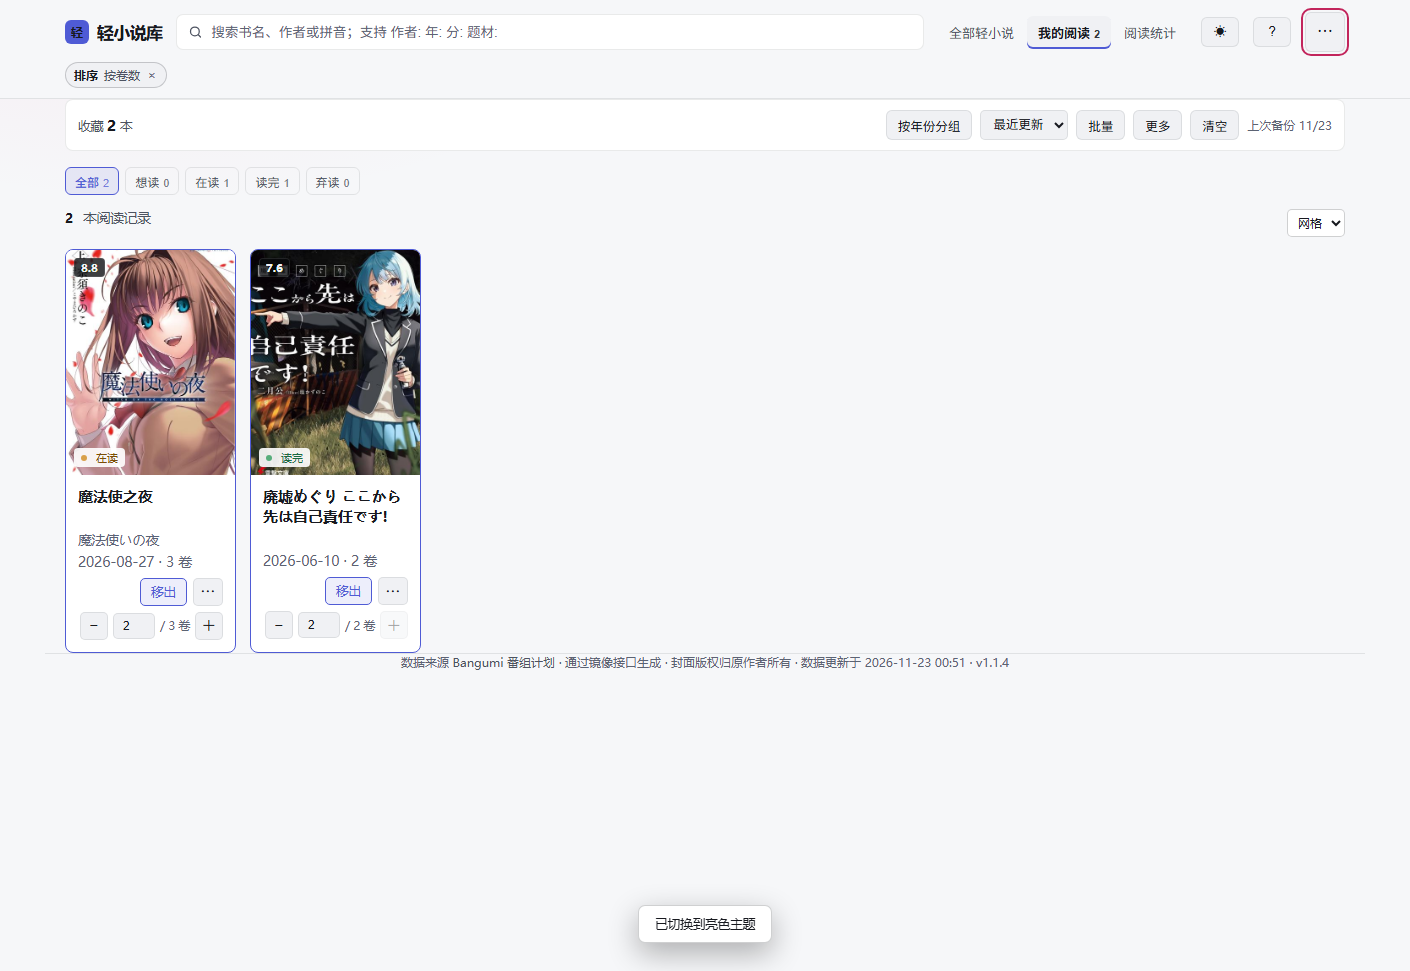
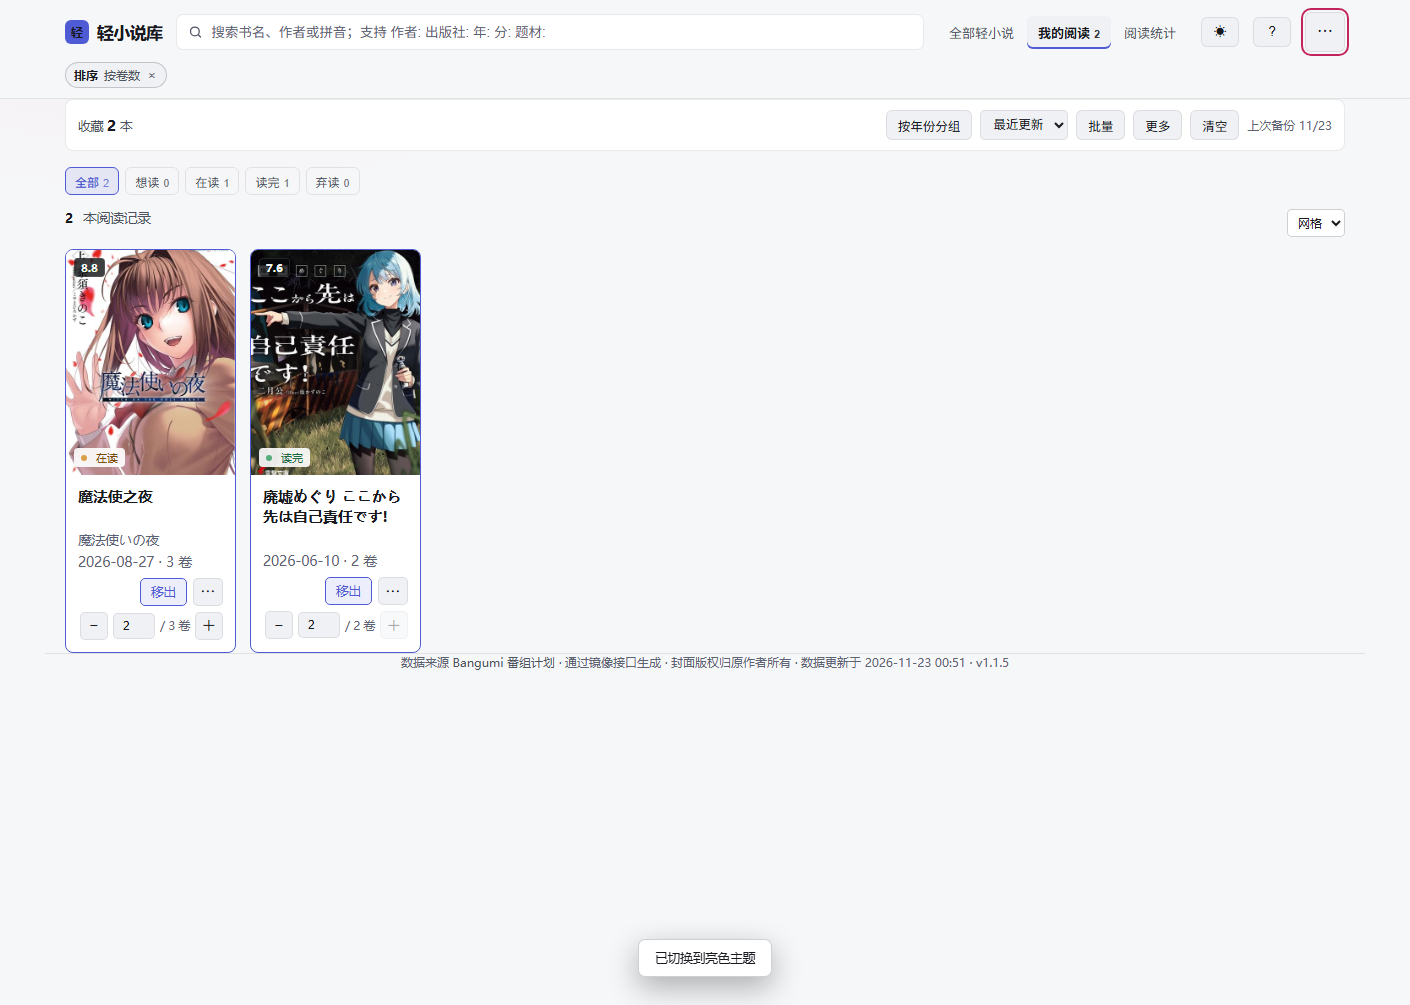
improve: 高级搜索新增出版社/书系字段与详情标签跳转

diff --git a/index.html b/index.html
@@ -2400,7 +2400,7 @@
           <circle cx="11" cy="11" r="7"></circle>
           <path d="m20 20-3.5-3.5"></path>
         </svg>
-        <input id="search" type="search" placeholder="搜索书名、作者或拼音；支持 作者: 年: 分: 题材:" autocomplete="off" aria-label="搜索书名">
+        <input id="search" type="search" placeholder="搜索书名、作者或拼音；支持 作者: 出版社: 年: 分: 题材:" autocomplete="off" aria-label="搜索书名">
         <div class="searchhist" id="searchHist" hidden></div>
       </div>
       <nav class="tabs">
@@ -2561,7 +2561,7 @@
 </main>
 
 <footer class="wrap">
-  数据来源 <a href="https://bgm.tv" target="_blank" rel="noreferrer">Bangumi 番组计划</a> · 通过镜像接口生成 · 封面版权归原作者所有 · 数据更新于 <span id="dataUpdated" title="Bangumi 数据快照生成时间">—</span> · <span title="项目版本">v1.1.4</span>
+  数据来源 <a href="https://bgm.tv" target="_blank" rel="noreferrer">Bangumi 番组计划</a> · 通过镜像接口生成 · 封面版权归原作者所有 · 数据更新于 <span id="dataUpdated" title="Bangumi 数据快照生成时间">—</span> · <span title="项目版本">v1.1.5</span>
 </footer>
 
 <div class="modal" id="modal" hidden>
@@ -2611,7 +2611,7 @@
       <li><kbd>?</kbd><span>打开 / 关闭本帮助</span></li>
       <li><kbd>长按</kbd><span>快捷菜单；Ctrl K 打开命令面板</span></li>
     </ul>
-    <p class="hint">搜索支持字段：<code>作者:米泽穗信</code>、<code>年:2020</code>（区间 <code>年:2010-2020</code>）、<code>分:&gt;=8</code>、<code>题材:奇幻</code>；<code>-词</code> 用于排除。</p>
+    <p class="hint">搜索支持字段：<code>作者:米泽穗信</code>、<code>出版社:KADOKAWA</code>、<code>书系:電撃文庫</code>、<code>年:2020</code>（区间 <code>年:2010-2020</code>）、<code>分:&gt;=8</code>、<code>题材:奇幻</code>；<code>-词</code> 用于排除。</p>
     <button class="btn primary" id="helpClose" type="button">知道了</button>
   </div>
 </div>
@@ -3511,12 +3511,12 @@
       (/^[a-z0-9]+$/.test(token) && py.indexOf(token) >= 0);
   }
 
-  // 高级搜索字段：作者:、年:、分:、题材:（也接受全角冒号）
+  // 高级搜索字段：作者:、出版社:、书系:、年:、分:、题材:（也接受全角冒号）
   function parseSearchFields(tokens) {
     var fields = [];
     var rest = [];
     tokens.forEach(function (t) {
-      var m = t.match(/^(作者|年|分|题材|tag)[:：](.+)$/i);
+      var m = t.match(/^(作者|出版社|书系|年|分|题材|pub|line|tag)[:：](.+)$/i);
       if (!m) { rest.push(t); return; }
       fields.push({ k: m[1].toLowerCase(), v: m[2].trim() });
     });
@@ -3583,6 +3583,12 @@
       if (f.k === '作者') {
         var au = f.v.toLowerCase();
         list = list.filter(function (x) { return String(x.au || '').toLowerCase().indexOf(au) >= 0; });
+      } else if (f.k === '出版社' || f.k === 'pub') {
+        var pub = f.v.toLowerCase();
+        list = list.filter(function (x) { return String(x.pub || '').toLowerCase().indexOf(pub) >= 0; });
+      } else if (f.k === '书系' || f.k === 'line') {
+        var line = f.v.toLowerCase();
+        list = list.filter(function (x) { return String(x.line || '').toLowerCase().indexOf(line) >= 0; });
       } else if (f.k === '年') {
         list = list.filter(function (x) { return matchYear(x.d, f.v); });
       } else if (f.k === '分') {
@@ -4497,14 +4503,27 @@
     if (collected && myMap[id].r) {
       pairs.push(['我的评分', myMap[id].r + ' / 10']);
     }
-    // 作者单独渲染成可点击标签，一键筛选该作者的全部作品
-    pairs = pairs.filter(function (p) { return p[0] !== '作者'; });
+    // 作者、出版社、书系单独渲染成可点击标签，一键筛选同一来源的作品
+    pairs = pairs.filter(function (p) {
+      return p[0] !== '作者' && p[0] !== '出版社' && p[0] !== '书系';
+    });
     var authorHtml = String(item.au || '').split(/[\/、,，&]/).map(function (name) {
       var n = name.trim();
       if (!n) return '';
       return '<button class="chip chipbtn" type="button" data-jump-author="' + escapeHtml(n) +
         '" title="查看该作者的全部作品"><i>作者</i>' + escapeHtml(n) + ' ›</button>';
     }).join('');
+    // 出版社 / 书系含空白时无法用单个搜索词表达，降级为普通标签只作展示
+    function jumpChip(attr, label, value, title) {
+      if (!value) return '';
+      if (/\s/.test(value)) {
+        return '<span class="chip"><i>' + label + '</i>' + escapeHtml(value) + '</span>';
+      }
+      return '<button class="chip chipbtn" type="button" data-' + attr + '="' + escapeHtml(value) +
+        '" title="' + title + '"><i>' + label + '</i>' + escapeHtml(value) + ' ›</button>';
+    }
+    var pubHtml = jumpChip('jump-pub', '出版社', item.pub, '查看该出版社的全部作品');
+    var lineHtml = jumpChip('jump-line', '书系', item.line, '查看该文库 / 书系的全部作品');
     var jumpHtml = yearOf(item.d)
       ? '<button class="chipjump" type="button" data-jump-year="' + yearOf(item.d) +
         '" title="查看 ' + yearOf(item.d) + ' 年的全部书目">' + yearOf(item.d) + ' 年 ›</button>'
@@ -4519,7 +4538,7 @@
     $('detailMeta').innerHTML = pairs.map(function (p) {
       var label = '<i>' + p[0] + '</i>' + escapeHtml(p[1]);
       return '<span class="chip"' + (p[0] === '进度' ? ' data-chip="progress"' : '') + '>' + label + '</span>';
-    }).join('') + jumpHtml + authorHtml + genreHtml;
+    }).join('') + jumpHtml + authorHtml + genreHtml + pubHtml + lineHtml;
     var opts = $('statusOpts');
     opts.hidden = !collected;
     opts.innerHTML = collected ? STATUS_ORDER.map(function (s) {
@@ -5857,6 +5876,18 @@
     if (authorBtn && authorBtn.dataset.jumpAuthor) {
       var name = authorBtn.dataset.jumpAuthor;
       jumpToAll({ q: '作者:' + name }, '已筛选作者：' + name);
+      return;
+    }
+    var pubBtn = e.target.closest('[data-jump-pub]');
+    if (pubBtn && pubBtn.dataset.jumpPub) {
+      var pub = pubBtn.dataset.jumpPub;
+      jumpToAll({ q: '出版社:' + pub }, '已筛选出版社：' + pub);
+      return;
+    }
+    var lineBtn = e.target.closest('[data-jump-line]');
+    if (lineBtn && lineBtn.dataset.jumpLine) {
+      var line = lineBtn.dataset.jumpLine;
+      jumpToAll({ q: '书系:' + line }, '已筛选书系：' + line);
     }
   });
 

diff --git a/sw.js b/sw.js
@@ -1,5 +1,5 @@
 // 应用壳离线缓存：首页网络优先并带超时回退，其余同源资源缓存优先、后台更新
-var CACHE = 'yuc-ln-shell-v7';
+var CACHE = 'yuc-ln-shell-v8';
 var SHELL = ['./', './index.html', './manifest.webmanifest', './icon.svg', './icons/icon-180.png', './icons/icon-192.png', './icons/icon-512.png', './data/light-novels.js'];
 var IMG_LIMIT = 400;
 

diff --git a/HANDOVER.md b/HANDOVER.md
@@ -1,10 +1,10 @@
 # 轻小说库 · 落实与交接
 
 - 文档日期：2026-11-23
-- 当前状态：**v1.1.4 完成**（数据、页面、书评、统计、Gist 同步、PWA、自动化验收 128/128）
+- 当前状态：**v1.1.5 完成**（数据、页面、书评、统计、Gist 同步、PWA、自动化验收 131/131）
 - 模板项目：`../番剧`（Bangumi Anime Library v1.6.8）
 - 模板线上：<https://xyykmkefke.github.io/bangumi-anime-library/>
-- 目标版本：v1.1.4（已达成，补丁：书评草稿自动保留）
+- 目标版本：v1.1.5（已达成，补丁：出版社 / 书系搜索与标签跳转）
 
 ## 1. 目标与边界
 
@@ -399,6 +399,16 @@ PWA / 移动端：
 - 版本与缓存：页脚、manifest、package.json 升至 1.1.4；SW 缓存名升到 `yuc-ln-shell-v7`。
 - 测试：`check-data` 问题 0；`test-merge` 20/20；`verify` 128/128（新增草稿暂存、重开恢复、草稿提示、保存后清除 4 项）。
 - 来源：<https://roadmap.thestorygraph.com/requests-ideas/posts/add-spoiler-tag-to-reviews>、<https://roadmap.thestorygraph.com/changelog>、<https://hardcover.app/blog/hardcover-report-for-september-2026>。
+
+## 9.8 v1.1.5 补丁记录（2026-11-23）
+
+- 参考 Calibre 的 `字段:值` 搜索语法与 Kavita 元数据筛选字段（Publisher / Imprint），把库里已有的 `pub`（出版社）与 `line`（书系）纳入高级搜索。
+- 新增搜索字段 `出版社:` / `书系:`（兼容别名 `pub:` / `line:`），值为不区分大小写的包含匹配，可与关键词、`年:`、`分:`、`题材:`、`-词` 组合使用。
+- 详情页的出版社、书系由纯文本标签改为可点击标签：点击后按 `出版社:` / `书系:` 跳转全库筛选；含空白的值无法用单个搜索词表达，降级为普通标签仅展示。
+- 帮助面板、搜索框占位与 README 同步补充新语法。
+- 版本与缓存：页脚、manifest、package.json 升至 1.1.5；SW 缓存名升到 `yuc-ln-shell-v8`。
+- 测试：`check-data` 问题 0；`test-merge` 20/20；`verify` 131/131（新增出版社搜索、书系搜索、出版社标签跳转 3 项）。
+- 来源：<https://manual.calibre-ebook.com/searching.html>、<https://calibre.posixlycorrect.com/advsearch>、<https://wiki.kavitareader.com/guides/features/filtering/>。
 
 ## 10. 已知风险与决策
 
